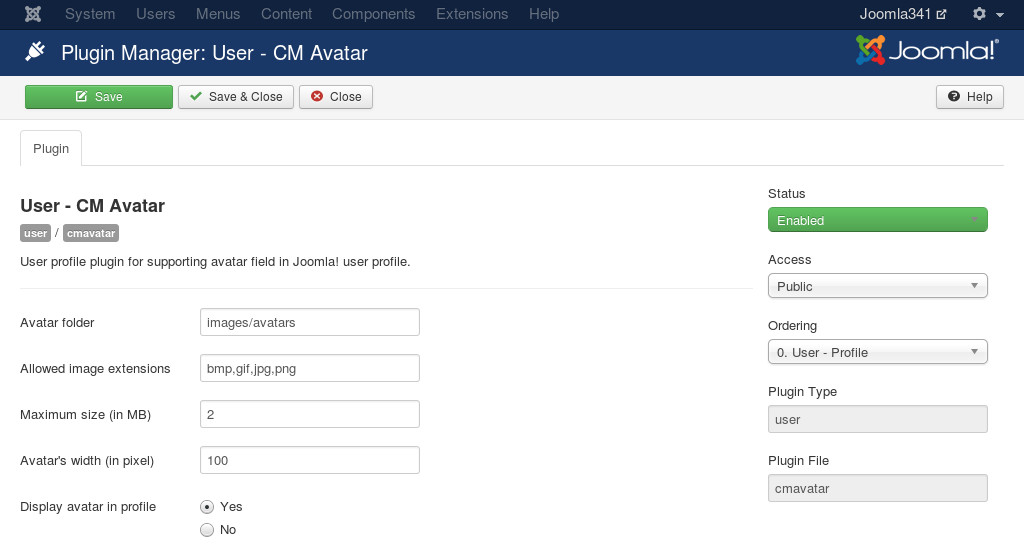
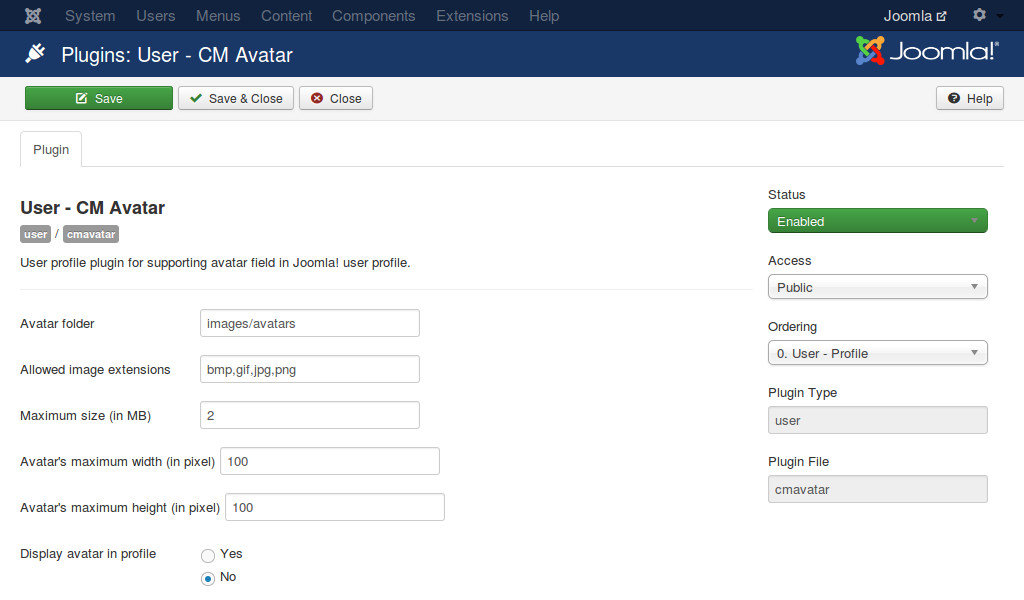
1.1.0

diff --git a/conf.py b/conf.py
@@ -51,9 +51,9 @@ copyright = u'2015, CMExtension'
 # built documents.
 #
 # The short X.Y version.
-version = '1.0.0'
+version = '1.1.0'
 # The full version, including alpha/beta/rc tags.
-release = '1.0.0'
+release = '1.1.0'
 
 # The language for content autogenerated by Sphinx. Refer to documentation
 # for a list of supported languages.

diff --git a/pages/configuration.rst b/pages/configuration.rst
@@ -35,7 +35,8 @@ On the left side, you configure the following options:
 * **Avatar folder**: The path to the folder where user avatars are stored, you create it in the step above. This path is relative to the root of your webspace. Example: images/avatars. **Note: Do not start the path with a slash!**
 * **Allowed image extensions**: Extensions (file types) which are allowed to upload, the extensions are separated by comma, for example: bmp,gif,jpg,png.
 * **Maximum size (in MB)**: The maximum size of image which is allowed to upload. **Note: your server also has its own maximum limit.**
-* **Avatar's width (in pixel)**: The avatar file will be resized to this width. The height will be calculated and resized to keep the image's ratio.
+* **Avatar's maximum width (in pixel)**: The maximum width of avatar. Avatar file will be resized to this width. The height will be calculated and resized to keep the image's ratio.
+* **Avatar's maximum height (in pixel)**: The maximum height of avatar. After avatar is resized based on maximum width, if the avatar's height is bigger than this value, avatar file will be resized to this height, the width will be calculated and resized to keep the image's ratio.
 * **Display avatar in profile**: Display the current avatar in profile view. By default this option is disabled because **it is not possible to display an image in profile view**. Please view :ref:`ref-display` section for solution.
 
 After you save the plugin, you can see the options for uploading avatar when you edit your profile.
